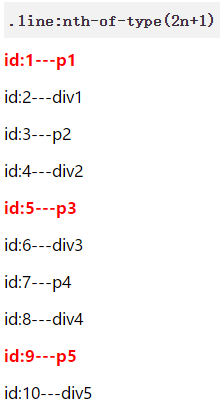
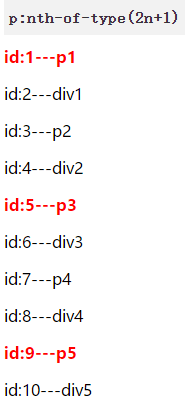
update #

diff --git a/read_note/css/css_base_nth.md b/read_note/css/css_base_nth.md
@@ -166,7 +166,7 @@ tips: 注意 nth-of-type 的描述， **相同兄弟节点的元素**
 </div>
 ```
 
-![.hello:nth-of-type(2n+1)](https://raw.githubusercontent.com/eminoda/myBlog/master/read_note/css/imgs/nthOfType3.png)
+![.line:nth-of-type(2)](https://raw.githubusercontent.com/eminoda/myBlog/master/read_note/css/imgs/nthOfType3.png)
 
 结合之前例子， 就能知道为何这两行显示。 
 
@@ -190,19 +190,19 @@ tips: 注意 nth-of-type 的描述， **相同兄弟节点的元素**
 </div>
 ```
 
-![.line:nth-of-type(2)](https://raw.githubusercontent.com/eminoda/myBlog/master/read_note/css/imgs/nthOfType4.png)
+![.line:nth-child(2)](https://raw.githubusercontent.com/eminoda/myBlog/master/read_note/css/imgs/nthOfType4.png)
 
 和 nth-of-type 不同， child 是根据父节点下， 和伪元素匹配的元素， **且不会按照相同元素** 做区分。 
 
 ## 最佳实践
 
-在使用上， 无论 **:nth-of-type** 还是 **:nth-child** 最好都在前面加个父类的选择器
+在使用上， 无论 **:nth-of-type** 还是 **:nth-child** 最好都在前面加个父类的选择器： 
 
-例如： selector :nth-of-type
+selector :nth-of-type
 
 这样有个好处， 不至于由于没控制好“分寸”导致样式影响到其他地方。 
 
-.wrap-test 只是因为区分其他 demo。 比如开发者本地想实现父标签 .test-parent1 下第三个 p 标签显示粉色（.wrap-test .test-parent1 :nth-child(3)）， 结果遗漏了父标签， 导致 .test-parent1 和 .test-parent2 都做了显示。 
+如下： （.wrap-test 只是因为区分其他 demo） 比如开发者本地想实现父标签 .test-parent1 下第三个 p 标签显示粉色（.wrap-test .test-parent1 :nth-child(3)）， 结果遗漏了父标签， 导致 .test-parent1 和 .test-parent2 都做了显示。 
 
 ```html
 <h3><code>无父类修饰</code></h3>
@@ -245,8 +245,8 @@ tips: 注意 nth-of-type 的描述， **相同兄弟节点的元素**
 
 如果你觉得这篇文章对你有帮助， 请点个赞或者分享给更多的道友。 
 
-也可以扫码关注我的 **微信订阅号 - [ 前端雨爸 ]**， 第一时间收到技术文章 :rocket:
+也可以扫码关注我的 **微信订阅号 - [ 前端雨爸 ]**， 第一时间收到技术文章 :rocket:， 工作之余我会持续输出 :fire:
 
 ![微信订阅号-前端雨爸](https://raw.githubusercontent.com/eminoda/myBlog/master/imgs/webcat-qrcode.jpg)
 
-我会把学习和工作心得持续输出 :fire: ， 你们的支持是我写作的最大动力 :tada:
+最后感谢阅读， 你们的支持是我写作的最大动力 :tada:
